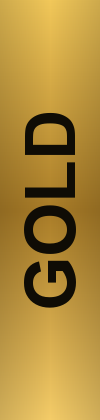
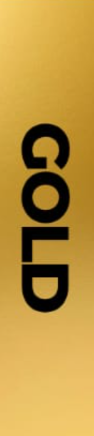
Update show date to Friday, 22 May

diff --git a/index.html b/index.html
@@ -5,7 +5,7 @@
     <link rel="icon" type="image/svg+xml" href="/Bookmyshow_Tickets_Ravi_Gupta/favicon.svg" />
     <meta name="viewport" content="width=device-width, initial-scale=1.0" />
     <title>ticket-website</title>
-    <script type="module" crossorigin src="/Bookmyshow_Tickets_Ravi_Gupta/assets/index-OE_rCSzo.js"></script>
+    <script type="module" crossorigin src="/Bookmyshow_Tickets_Ravi_Gupta/assets/index-Bkc51ASD.js"></script>
     <link rel="modulepreload" crossorigin href="/Bookmyshow_Tickets_Ravi_Gupta/assets/chunk-B3K2TuZy.js">
     <link rel="modulepreload" crossorigin href="/Bookmyshow_Tickets_Ravi_Gupta/assets/typeof-DmQ5kzpc.js">
     <link rel="stylesheet" crossorigin href="/Bookmyshow_Tickets_Ravi_Gupta/assets/index-CJNxFADh.css">